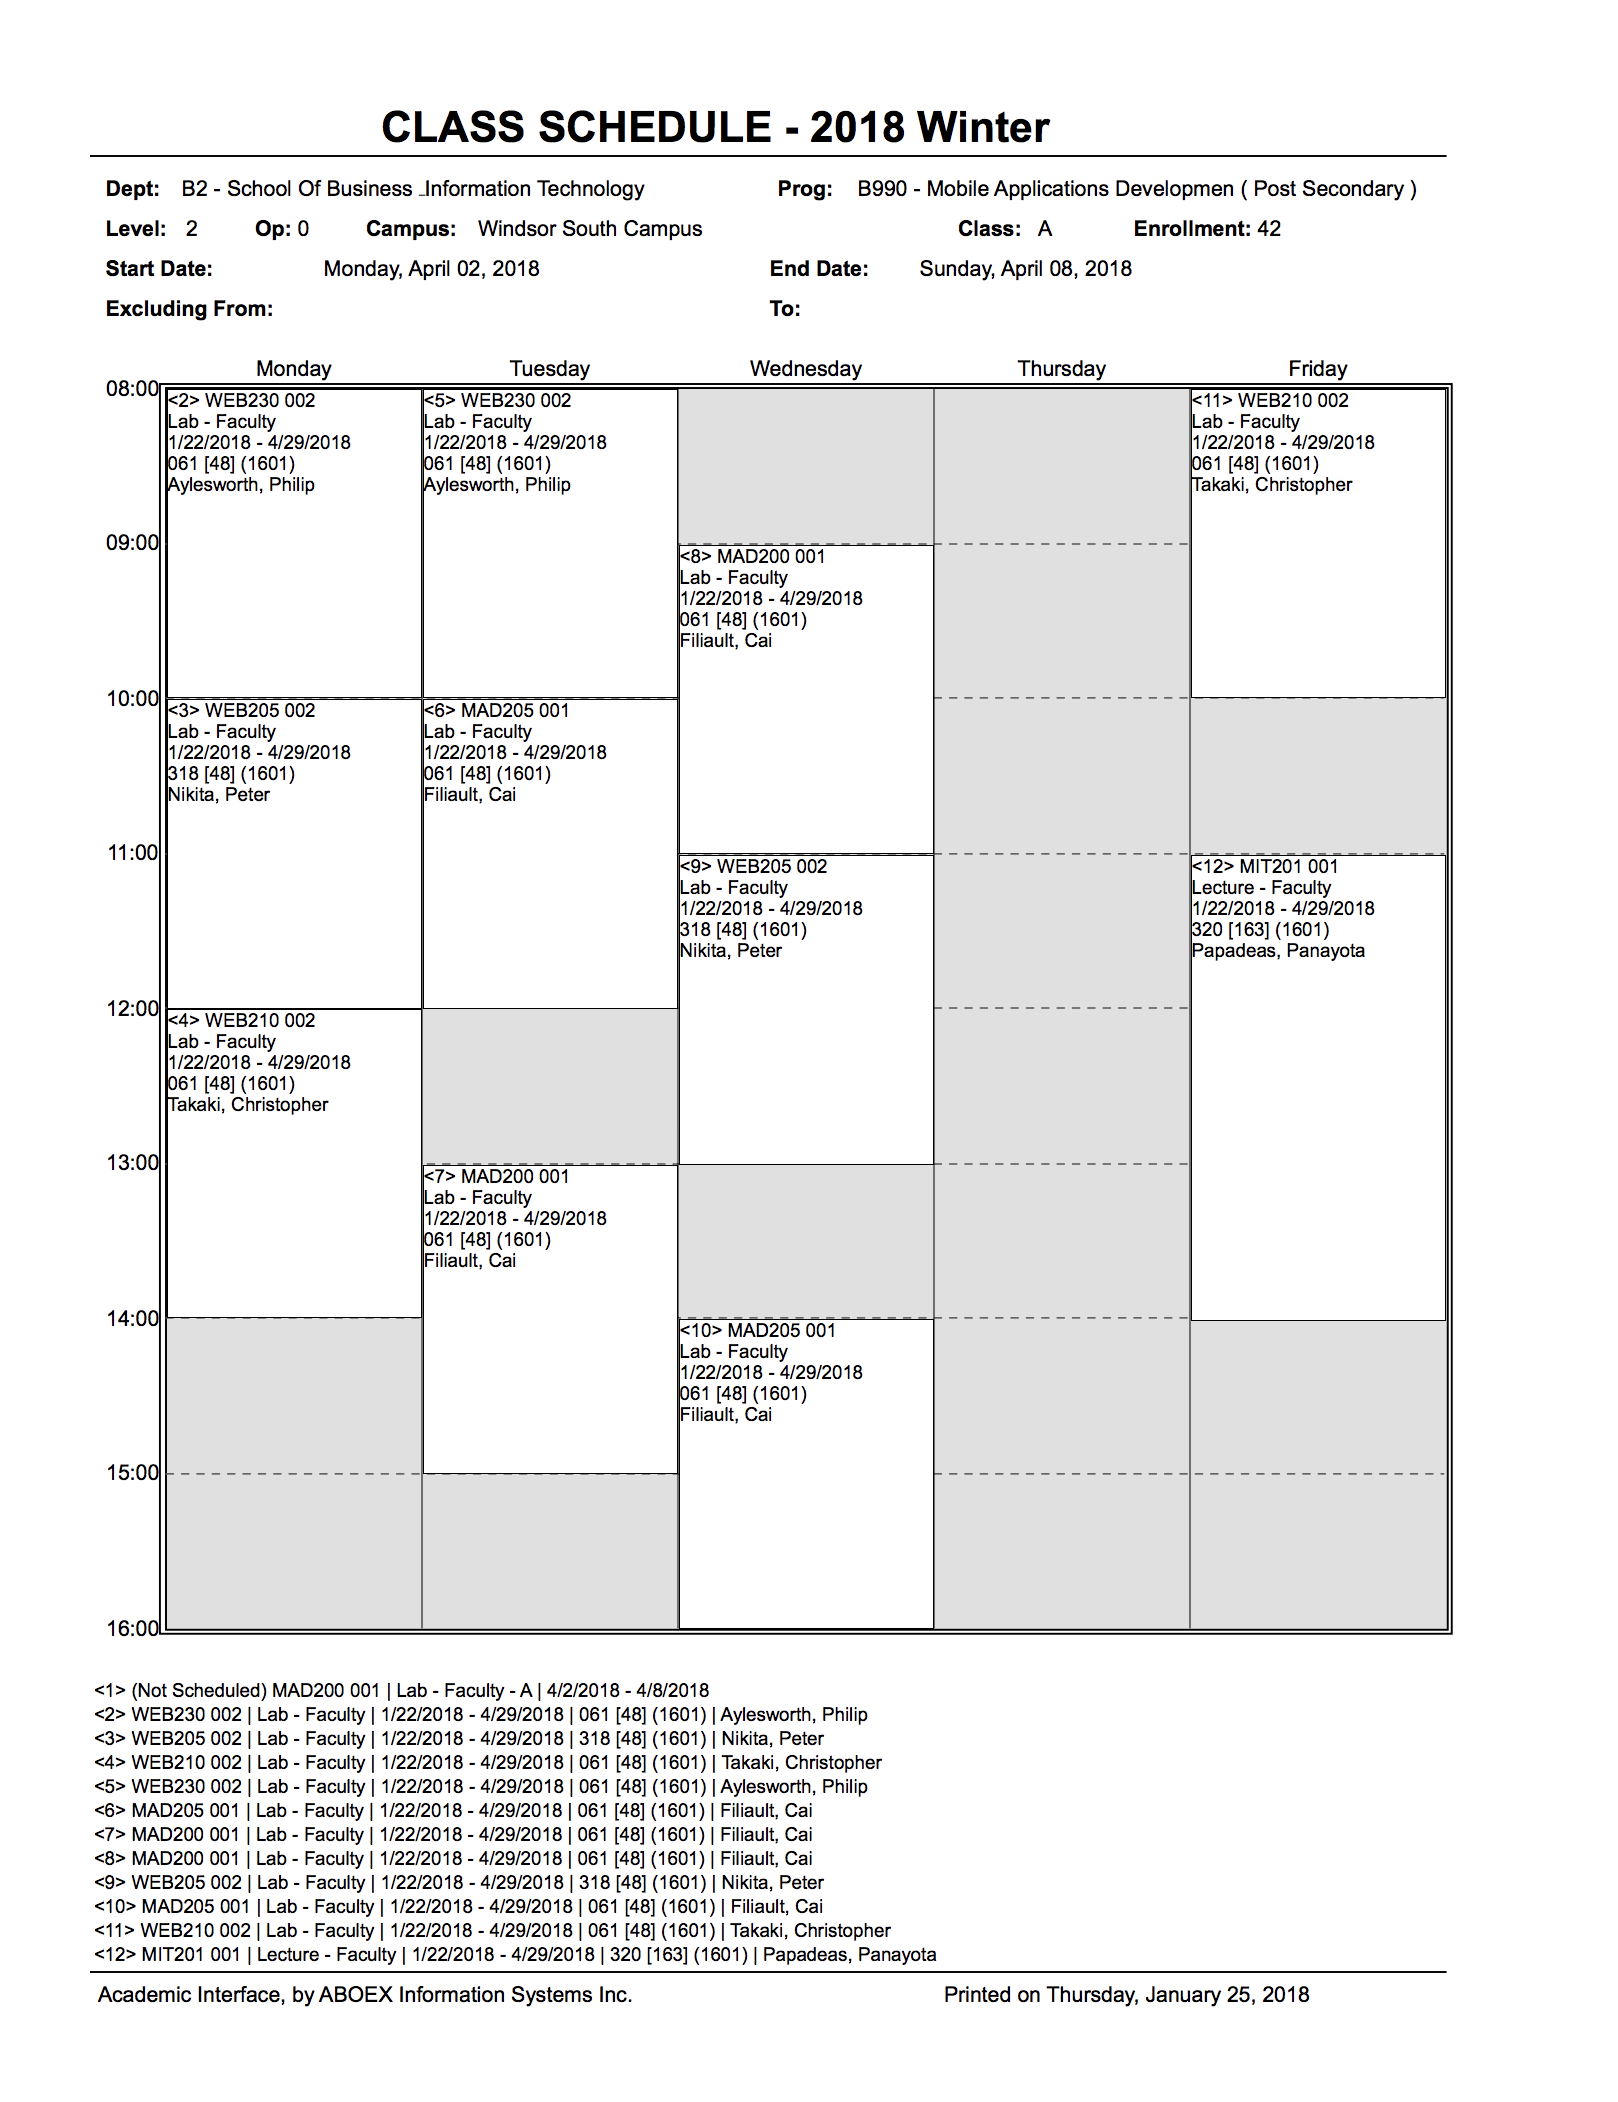
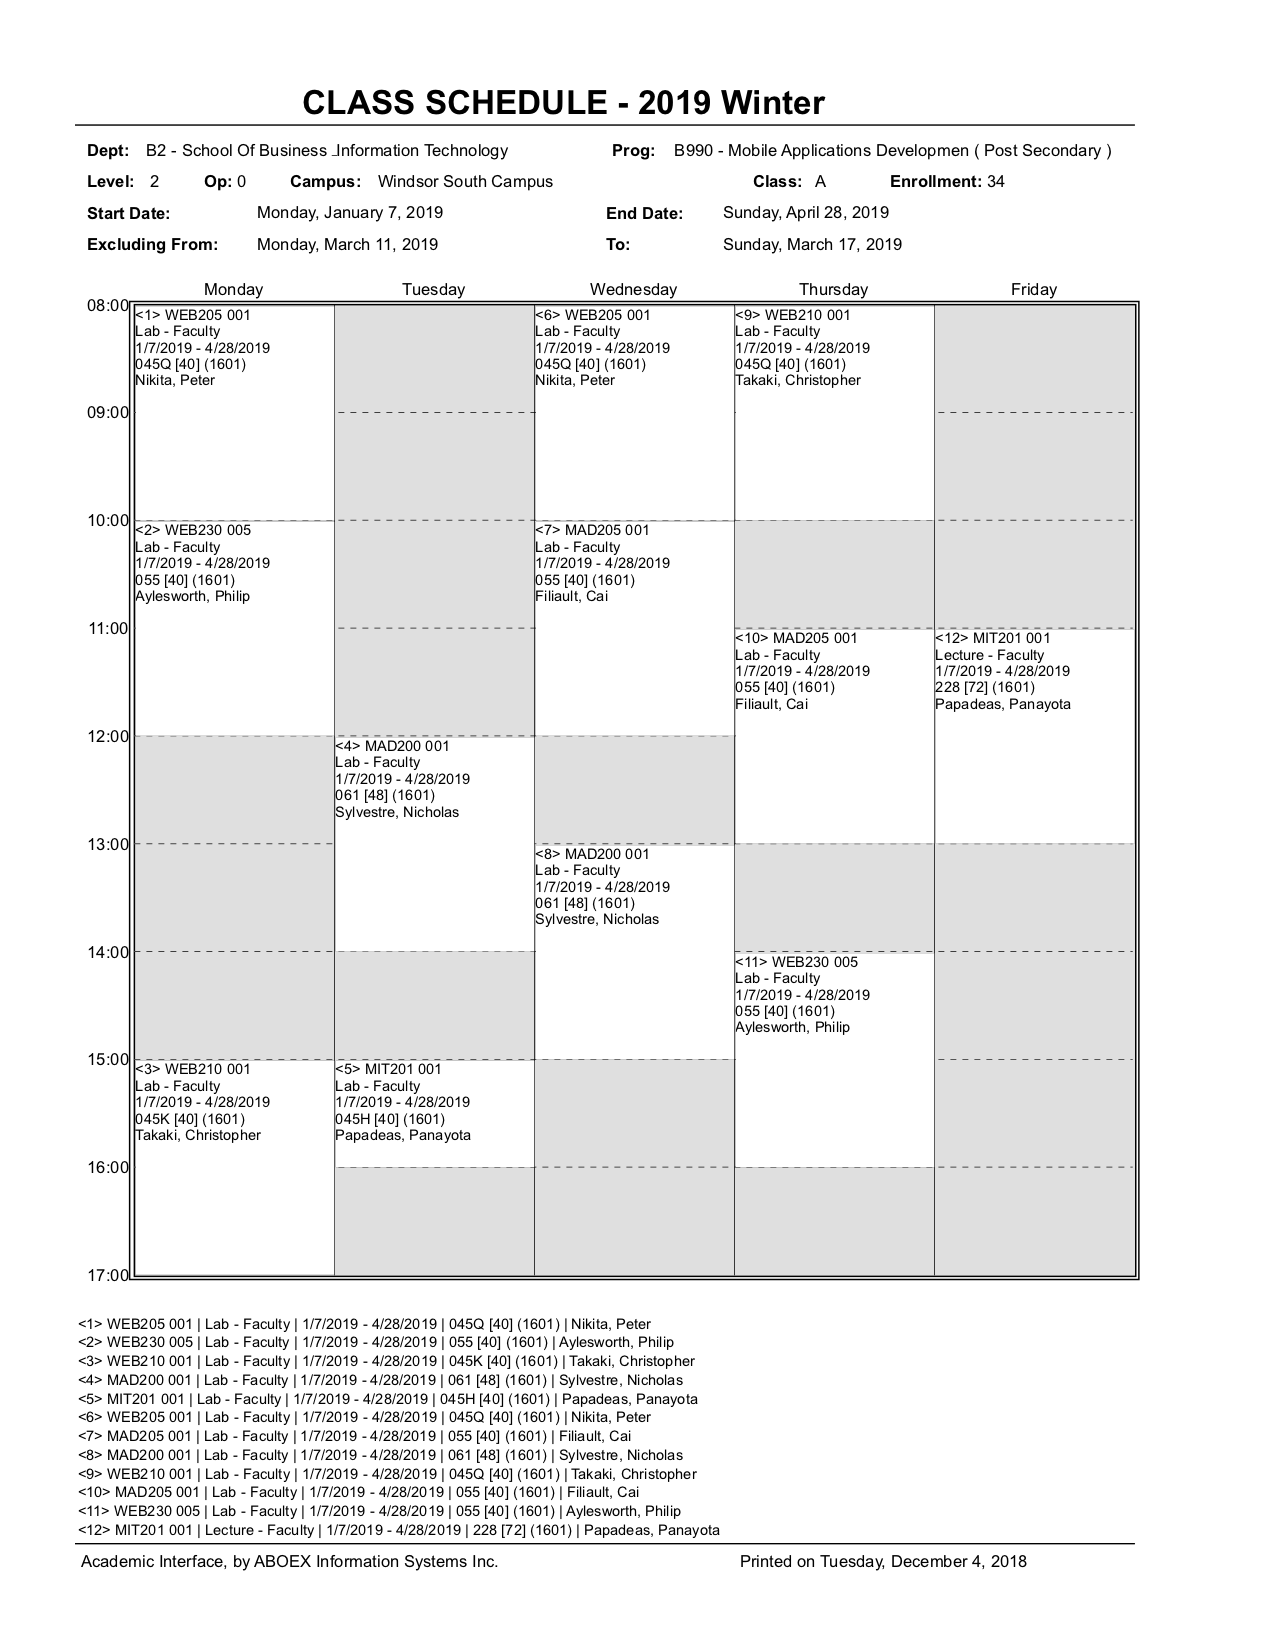
Updated class/room schedules

diff --git a/util.js b/util.js
@@ -4,12 +4,13 @@
 
 // Class Schedules
 exports.FIRST_YEAR_SCHEDULE = "./img/First-Year.png";
+exports.FIRST_YEAR_SCHEDULE2 = "./img/First-Year2.png";
 exports.SECOND_YEAR_SCHEDULE = "./img/Second-Year.png";
 exports.THIRD_YEAR_SCHEDULE = "./img/Third-Year.png";
-exports.CLASS_SCHEDULES = [exports.FIRST_YEAR_SCHEDULE, exports.SECOND_YEAR_SCHEDULE, exports.THIRD_YEAR_SCHEDULE];
+exports.CLASS_SCHEDULES = [exports.FIRST_YEAR_SCHEDULE, exports.FIRST_YEAR_SCHEDULE2, exports.SECOND_YEAR_SCHEDULE, exports.THIRD_YEAR_SCHEDULE];
 
 // Room Schedules
-exports.ROOM_52_SCHEDULE = "./img/Room_52_Schedule.jpg";
-exports.ROOM_55_SCHEDULE = "./img/Room_55_Schedule.jpg";
-exports.ROOM_61_SCHEDULE = "./img/Room_61_Schedule.jpg";
+exports.ROOM_52_SCHEDULE = "./img/Room_52_Schedule.png";
+exports.ROOM_55_SCHEDULE = "./img/Room_55_Schedule.png";
+exports.ROOM_61_SCHEDULE = "./img/Room_61_Schedule.png";
 exports.ROOM_SCHEDULES = [exports.ROOM_52_SCHEDULE, exports.ROOM_55_SCHEDULE, exports.ROOM_61_SCHEDULE];

diff --git a/commands/schedule1.js b/commands/schedule1.js
@@ -8,5 +8,6 @@
 const util = require('../util.js');
 
 exports.run = (client, message, args) => {
-    message.channel.send("First Year Schedule", { files: [util.FIRST_YEAR_SCHEDULE] });
+    message.channel.send("First Year Schedule - Section 1", { files: [util.FIRST_YEAR_SCHEDULE] });
+    message.channel.send("First Year Schedule - Section 2", { files: [util.FIRST_YEAR_SCHEDULE2] });
 }
